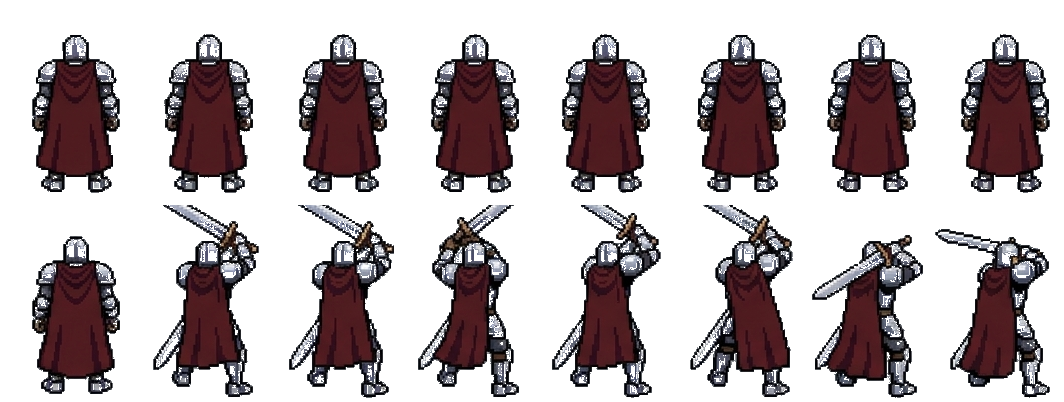
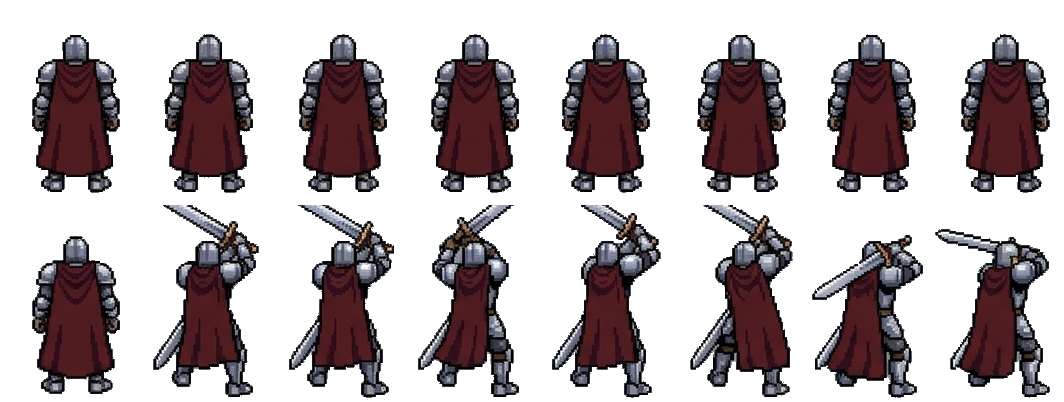
fix(typerdungeon): recorte por inundacion para que el casco no salga con agujeros

diff --git a/src/components/TyperDungeon/sprites/sprites.test.js b/src/components/TyperDungeon/sprites/sprites.test.js
@@ -71,14 +71,17 @@ describe('los monstruos', () => {
     }
   });
 
-  it('el recorte deja el sprite limpio: sin restos de panel', () => {
-    const fallos = [];
+  it('el panel desaparece: las esquinas del recorte quedan transparentes', () => {
+    // El recorte es por inundacion (el panel se quita desde fuera): si
+    // queda panel alrededor de la figura, las esquinas siguen pintadas.
     for (const m of Object.values(MONSTERS)) {
-      const r = analizar(MONSTRUOS, m.x, m.y, m.w, m.h);
-      const pct = (r.panel / r.opacos) * 100;
-      if (pct > 2) fallos.push(`${m.key}: queda ${pct.toFixed(1)}% de panel`);
+      for (const [cx, cy] of [
+        [m.x, m.y], [m.x + m.w - 1, m.y], [m.x, m.y + m.h - 1], [m.x + m.w - 1, m.y + m.h - 1],
+      ]) {
+        const s = (cy * MONSTRUOS.ancho + cx) * 4;
+        expect(MONSTRUOS.rgba[s + 3]).toBe(0);
+      }
     }
-    expect(fallos).toEqual([]);
   });
 
   it('el recorte deja una silueta con forma (no un bloque)', () => {
@@ -120,29 +123,32 @@ describe('el héroe', () => {
     expect(HEROE.alto).toBe(CELDA_H * 2);
   });
 
-  it('cada frame sale limpio: sin restos de panel', () => {
-    const fallos = [];
+  it('el panel desaparece: el fondo de cada frame queda transparente', () => {
     for (let f = 0; f < 16; f++) {
-      const r = analizar(HEROE, (f % 8) * CELDA_W, (f < 8 ? 0 : CELDA_H), CELDA_W, CELDA_H);
-      const pct = (r.panel / r.opacos) * 100;
-      if (pct > 2) fallos.push(`frame ${f}: queda ${pct.toFixed(1)}% de panel`);
+      const x0 = (f % 8) * CELDA_W;
+      const y0 = f < 8 ? 0 : CELDA_H;
+      for (const [cx, cy] of [[x0, y0], [x0 + CELDA_W - 1, y0], [x0, y0 + CELDA_H - 1], [x0 + CELDA_W - 1, y0 + CELDA_H - 1]]) {
+        const s = (cy * HEROE.ancho + cx) * 4;
+        expect(HEROE.rgba[s + 3]).toBe(0);
+      }
     }
-    expect(fallos).toEqual([]);
   });
 
   it('no queda la línea blanca del separador entre frames', () => {
     // El separador era una columna blanca de arriba abajo al lado de la
-    // figura. Ninguna columna de la celda puede estar llena de dibujo.
+    // figura. Ninguna columna de la celda puede estar llena de blanco.
     for (let f = 0; f < 16; f++) {
       const x0 = (f % 8) * CELDA_W;
       const y0 = f < 8 ? 0 : CELDA_H;
       for (let i = 0; i < CELDA_W; i++) {
-        let opacos = 0;
+        let blancos = 0, opacos = 0;
         for (let j = 0; j < CELDA_H; j++) {
           const s = ((y0 + j) * HEROE.ancho + x0 + i) * 4;
-          if (HEROE.rgba[s + 3] > 250) opacos++;
+          if (HEROE.rgba[s + 3] < 250) continue;
+          opacos++;
+          if (HEROE.rgba[s] > 200 && HEROE.rgba[s + 1] > 200 && HEROE.rgba[s + 2] > 200) blancos++;
         }
-        expect(opacos / CELDA_H).toBeLessThan(0.9);
+        if (opacos / CELDA_H > 0.9) expect(blancos / opacos).toBeLessThan(0.9);
       }
     }
   });
@@ -170,10 +176,12 @@ describe('el héroe', () => {
     expect(Math.abs(anchos[0] - HERO_SPRITE.figureW)).toBeLessThanOrEqual(6);
   });
 
-  it('la armadura blanca del heroe no se come', () => {
-    // Si el recorte tratara el blanco como si fuera fondo, el heroe salia
-    // con agujeros: la armadura (clara) tiene que seguir ahi.
+  it('la armadura y el casco del heroe no se come', () => {
+    // Si el recorte tratara el blanco (o el gris del casco, que es el mismo
+    // que el del panel) como si fuera fondo, el heroe salia con agujeros.
     const r = analizar(HEROE, 0, 0, CELDA_W, CELDA_H);
     expect(r.blancos).toBeGreaterThan(50);
+    // Y el casco (gris del panel, dentro de la silueta) se queda opaco.
+    expect(r.panel).toBeGreaterThan(50);
   });
 });

diff --git a/docs/typerdungeon-arte.md b/docs/typerdungeon-arte.md
@@ -100,6 +100,14 @@ Lo que salió del camino al hacerlo:
   verde, se colaba y dejaba bandas grises detrás).
 - la primera y la última fila del panel son el borde del frame (una línea
   clara) y se quedan como una raya: se quitan.
+- **el casco y las hombreras del héroe están pintados con el mismo gris que
+  el panel** (121,127,133), así que ningún recorte por color puede
+  salvarlos: se los come y el héroe sale con agujeros (parece translúcido).
+  Lo que los separa del fondo es el **contorno negro**, así que el recorte
+  final es **por inundación**: el panel se quita desde fuera y el casco se
+  queda porque no hay manera de llegar a él.
+- la fila de ataque está dibujada 34 px más abajo que la de idle: si no se
+  corrige, el héroe da un salto al atacar. Se alinean por los pies.
 
 ### Paso 2 — Los 12 monstruos — HECHO
 
